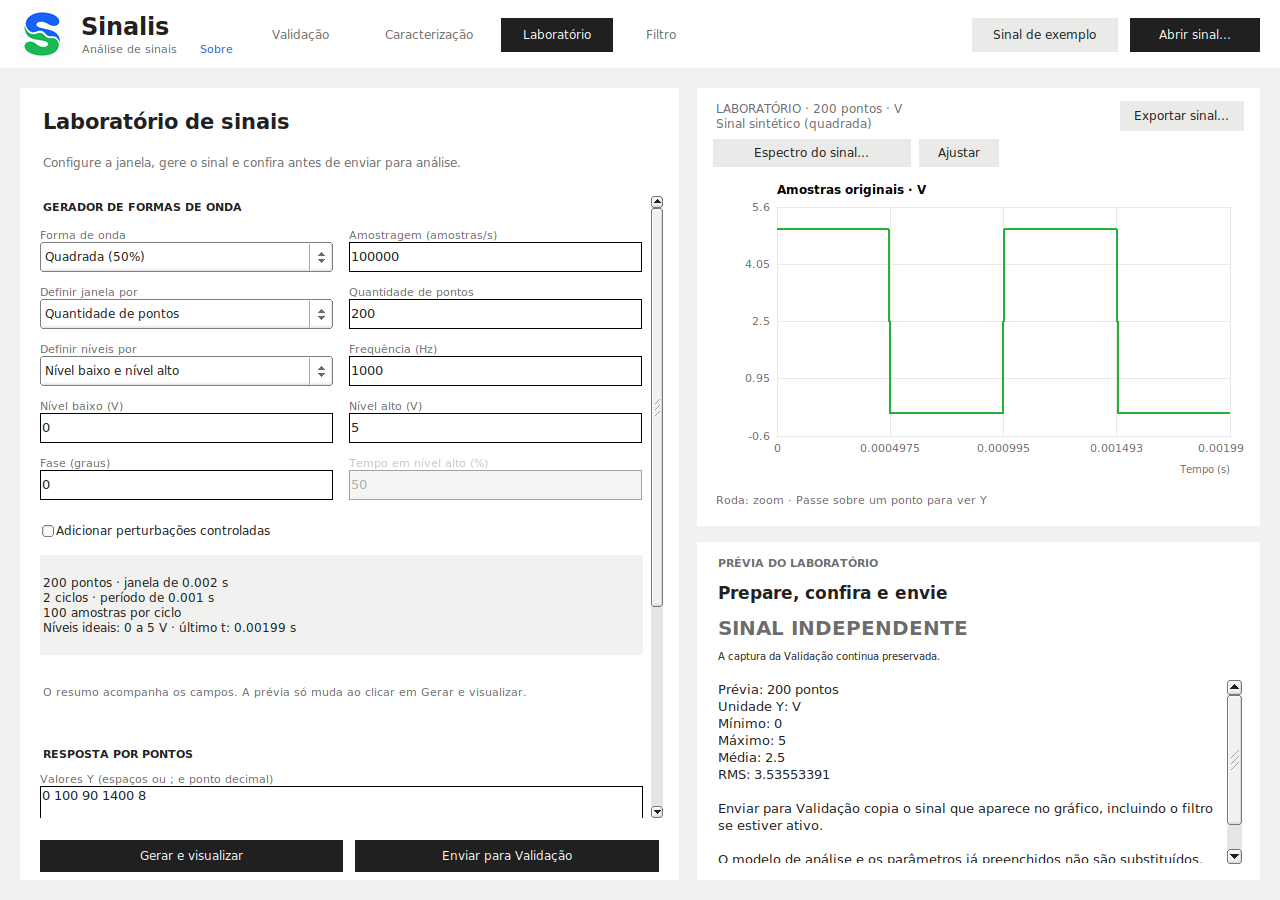
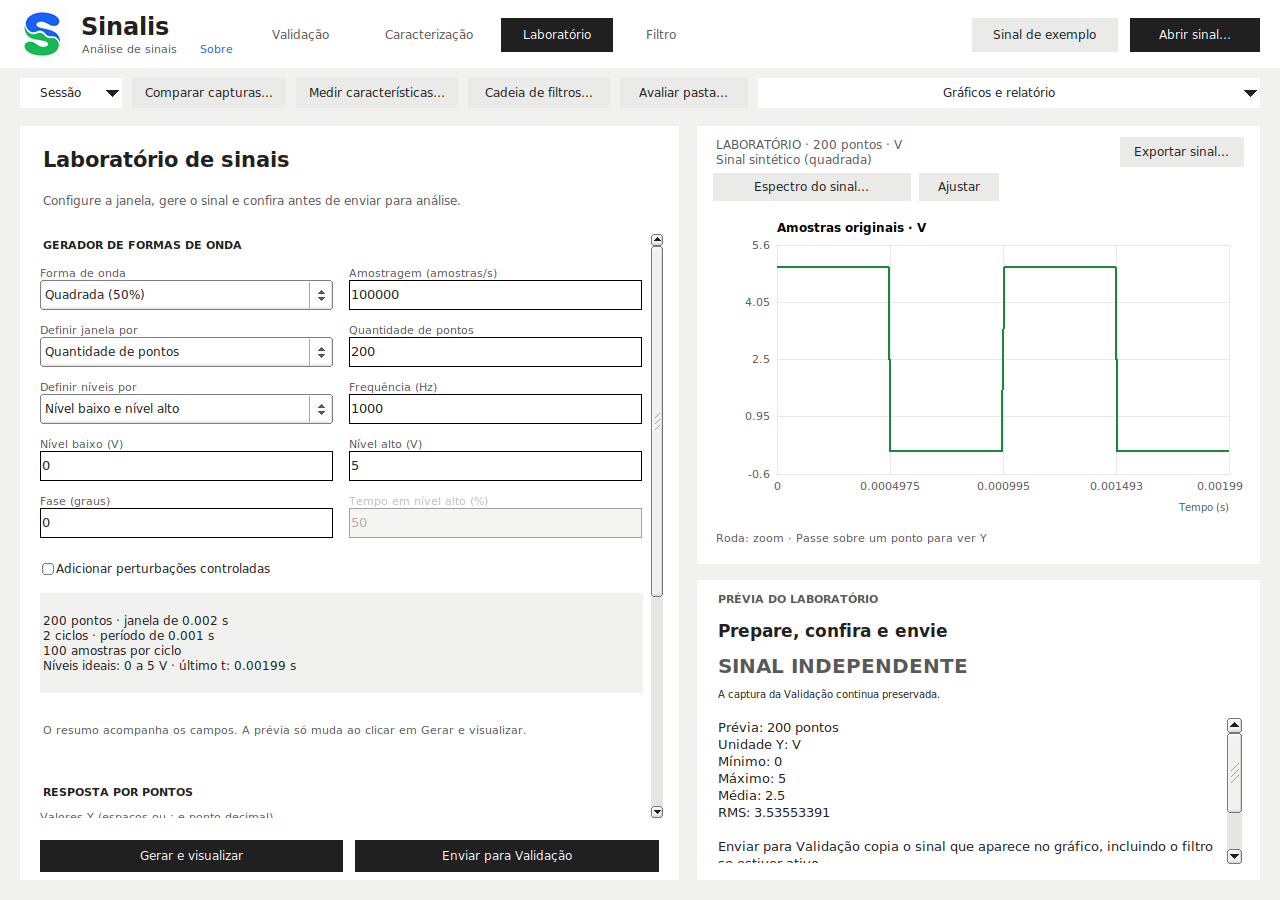
Publica Sinalis 0.15.1 e atualiza os guias de uso

diff --git a/USO.md b/USO.md
@@ -1,0 +1,126 @@
+# Guia de uso do Sinalis 0.15.1
+
+O Sinalis analisa arquivos locais. Uma tela de pelo menos 1024 × 660 permite
+usar a interface; 1280 × 900 oferece mais espaço para gráficos e critérios.
+
+## Começar por uma captura
+
+1. Clique em **Abrir sinal…** e escolha um JSON, CSV ou TXT numérico.
+2. Se o arquivo contiver vários conjuntos possíveis, confira a prévia e escolha
+   o sinal correto. Uma recuperação de arquivo defeituoso exige confirmação.
+3. Em **Caracterização**, confira os pontos, as unidades e os metadados.
+4. Em **Validação**, configure ou carregue o modelo que representa seu ensaio.
+5. Clique em **Avaliar modelo** e confira os resultados e suas justificativas.
+
+O sinal que acompanha a abertura do programa é um exemplo. Os limites dos
+modelos de demonstração são fictícios. Editar a unidade de X muda a
+identificação, sem converter os números.
+
+## Modelo e sessão
+
+**Salvar modelo…** guarda os critérios em `TEST_nome.json`. É útil para aplicar
+as mesmas exigências a outras capturas. Alterações do modelo precisam ser
+avaliadas ou salvas antes de exportar um resultado atualizado.
+
+**Sessão → Salvar sessão…** guarda o trabalho completo em `.sinalis`: sinais,
+modelo, estado dos filtros, configurações, observações, campos em edição e
+visualização. Campos numéricos ainda incompletos podem ser guardados sem
+aplicá-los. Ao retomar, a sessão utiliza os dados que contém; não abre
+automaticamente os caminhos históricos registrados nela.
+
+O asterisco no título indica alterações ainda não guardadas na sessão. Ao
+fechar ou abrir outra sessão, você pode salvar, descartar ou cancelar a ação.
+Cancelar a escolha do arquivo de salvamento também cancela a substituição.
+
+Salvar um modelo ou exportar um sinal não substitui salvar a sessão. Mantenha
+cópias de segurança dos arquivos importantes.
+
+## Entender a avaliação
+
+- **Aprovado:** os dados atenderam aos critérios configurados.
+- **Reprovado:** pelo menos uma exigência necessária falhou.
+- **Inconclusivo:** algum dado ou condição impediu a conclusão; leia o motivo.
+- **Sem critérios:** nenhum requisito de aprovação foi ativado.
+
+Em **Todos passarem**, cada regra ativa é necessária. Em **Pelo menos um
+passar**, basta uma. Em **Parcial**, todas as regras do mesmo conjunto precisam
+passar; basta um conjunto completo aprovado.
+
+Mostrar a curva de Lagrange não ativa sua validação. Nós utilizados na
+construção da curva não constituem uma comparação independente. Envelope e
+critérios de Lagrange habilitados acrescentam suas próprias exigências.
+
+## Comparar e medir
+
+**Comparar capturas…** recebe uma referência e informa erros e diferenças.
+Escolha entre coordenadas exatas e interpolação linear explícita. O programa
+confere domínios e unidades; não extrapola a referência nem converte unidades
+automaticamente. Correlação pode ficar indisponível para sinais constantes.
+
+**Medir características…** localiza picos e, quando há base temporal regular
+e transições suficientes, calcula período, frequência, duty e tempos de
+subida/descida. O overshoot exige níveis de referência manuais. Um resultado
+indisponível não é substituído por zero nem se torna um critério de aprovação
+automaticamente.
+
+## Gerar e filtrar
+
+Em **Laboratório**, configure a forma de onda, quantidade/duração, frequência e
+níveis antes de gerar. Ruído com semente fixa permite repetir o experimento.
+Envie uma cópia para **Validação** ou **Filtro** quando desejar.
+
+Em **Filtro**, confira a amostragem, escolha o processamento e compare a entrada
+com a saída. Sugestões são heurísticas; características úteis também podem ser
+suavizadas. Um processamento demorado permite navegar por outras abas; aguarde
+sua conclusão antes de substituir a sessão.
+
+**Cadeia de filtros…** permite organizar até 16 etapas, desativar ou reordenar
+filtros e experimentar uma parte da cadeia. Cada execução começa pela entrada.
+
+## Lotes e exportações
+
+**Avaliar pasta…** aplica um modelo ou procura os `TEST_` correspondentes às
+capturas selecionadas. O processamento não percorre subpastas nem segue links
+de arquivos. Confira o resumo CSV: ele distingue avaliações, arquivos
+existentes, erros e cancelamento.
+
+No fluxo de arquivos, `ensaio.json` corresponde a `TEST_ensaio.json` e produz
+`EVAL_ensaio.json`. Os originais são preservados; um relatório existente exige
+uma decisão de sobrescrita.
+
+**Exportar sinal…** guarda todas as amostras em JSON, CSV ou TXT, com metadados.
+O zoom não reduz essa exportação. CSV/TXT utilizam ponto decimal e um cabeçalho
+de metadados que o Sinalis consegue reimportar.
+
+**Gráficos e relatório** oferece PNG, SVG, PDF e HTML. PNG representa o gráfico
+visível; os relatórios utilizam os dados completos da avaliação. PDF inclui a
+configuração no anexo `configuracao.json`; HTML apresenta a configuração no
+próprio documento. Há também exportação CSV para espectro, picos e diferenças.
+
+## Atalhos
+
+| Tecla | Ação |
+|---|---|
+| Ctrl+1 a Ctrl+4 | Validação, Caracterização, Laboratório e Filtro |
+| Ctrl+O | Abrir sinal |
+| Ctrl+Shift+O | Abrir sessão |
+| Ctrl+Shift+S | Salvar sessão |
+| Ctrl+S | Salvar modelo em Validação, configuração em Filtro ou sessão nas outras abas |
+| Ctrl+Enter | Avaliar, gerar ou aplicar filtro na aba correspondente |
+| Tab / Shift+Tab | Percorrer os controles |
+| F1 | Ajuda do campo em foco; guia quando não há ajuda contextual |
+| Espaço / Enter no ícone (?) | Mostrar a explicação |
+| Esc na janela principal | Dispensar ajuda |
+| Ctrl+Q | Fechar, verificando alterações da sessão |
+
+O menu **Sessão → Ajuda e atalhos…** oferece o guia dentro do aplicativo.
+
+## Quando um resultado parecer estranho
+
+Confira primeiro o arquivo escolhido, unidades, taxa de amostragem, critérios
+ativos e avisos de recuperação. Considere a quantidade de amostras disponível:
+poucos pontos não permitem inferir o movimento entre eles.
+
+Para relatar um problema, informe versão, sistema, passos e resultado esperado.
+Compartilhe somente exemplos que possam se tornar públicos. O Sinalis não
+substitui calibração, ensaios físicos ou validação técnica independente.

diff --git a/README.md b/README.md
@@ -11,19 +11,30 @@ avaliar medições usando modelos com critérios configuráveis.
 Este repositório contém apenas a apresentação e os termos de distribuição.
 **O código-fonte e o histórico de desenvolvimento não são publicados aqui.**
 
-## Download — versão 0.14.2
+## Download — versão 0.15.1
 
 | Sistema | Download | Como abrir |
 |---|---|---|
-| Windows x64 | [Sinalis-0.14.2-Windows-x64.zip](https://github.com/IcaroRamosDM/Sinalis/releases/download/v0.14.2/Sinalis-0.14.2-Windows-x64.zip) | Extraia o ZIP inteiro e dê dois cliques em `Sinalis.exe` |
-| Ubuntu / Debian amd64 | [sinalis_0.14.2_amd64.deb](https://github.com/IcaroRamosDM/Sinalis/releases/download/v0.14.2/sinalis_0.14.2_amd64.deb) | Instale o pacote e procure **Sinalis** no menu do sistema |
+| Windows x64 | [Sinalis-0.15.1-Windows-x64.zip](https://github.com/IcaroRamosDM/Sinalis/releases/download/v0.15.1/Sinalis-0.15.1-Windows-x64.zip) | Extraia o ZIP inteiro e dê dois cliques em `Sinalis.exe` |
+| Ubuntu / Debian amd64 | [sinalis_0.15.1_amd64.deb](https://github.com/IcaroRamosDM/Sinalis/releases/download/v0.15.1/sinalis_0.15.1_amd64.deb) | Instale o pacote e procure **Sinalis** no menu do sistema |
 
 [Todas as versões e arquivos](https://github.com/IcaroRamosDM/Sinalis/releases)
-· [SHA-256 dos downloads](https://github.com/IcaroRamosDM/Sinalis/releases/download/v0.14.2/SHA256SUMS.txt)
+· [SHA-256 dos downloads](https://github.com/IcaroRamosDM/Sinalis/releases/download/v0.15.1/SHA256SUMS.txt)
 
 Na página da versão, abra **Assets** e escolha um dos dois pacotes acima.
 Os itens automáticos **Source code (zip)** e **Source code (tar.gz)** do GitHub
 contêm apenas os arquivos desta página, não o aplicativo nem seu código-fonte.
+
+## Novidades da versão 0.15.1
+
+- Sessões `.sinalis` para retomar sinais, modelos, filtros, observações e campos em edição.
+- Comparação de capturas, picos e medições temporais quando os dados permitem.
+- Cadeias de filtros, avaliação de pastas e exportação PNG/SVG/PDF/HTML.
+- Aviso de alterações da sessão, proteção dos arquivos em uso, ajuda por teclado,
+  foco visível e contraste revisto.
+- Correções na validação e restauração de sessões.
+
+[Guia de uso e atalhos](USO.md) · [Histórico de alterações](CHANGELOG.md)
 
 ## Permissão de uso
 
@@ -40,7 +51,7 @@ terceiros. Consulte os termos completos em [LICENSE.md](LICENSE.md).
 | Área | Principais recursos |
 |---|---|
 | **Validação** | Modelos de análise com várias regras, resultados por critério, tolerâncias, conjuntos alternativos, envelope de aprovação e critérios por interpolação de Lagrange |
-| **Caracterização** | Quantidade de pontos, extremos, média, RMS, pico a pico, informações do sinal e espectro FFT/Welch |
+| **Caracterização** | Estatísticas, picos, período/frequência, duty, subida/descida e overshoot condicionados aos dados; espectro FFT/Welch |
 | **Laboratório** | Senoide, quadrada, pulso, triangular, dentes de serra, pulso único, rajada, sequência por pontos, ruído reprodutível e falhas controladas |
 | **Filtro** | Comparação antes/depois, média móvel, EMA, mediana, IIR, notch, FIR, Savitzky–Golay, Hampel, gaussiano, média aparada, wavelets e sugestões automáticas |
 
@@ -53,7 +64,10 @@ terceiros. Consulte os termos completos em [LICENSE.md](LICENSE.md).
   você escolha o conjunto correto. Não é um leitor universal de qualquer JSON.
 - **Saída de sinais:** JSON, CSV ou TXT.
 - **Modelos de validação:** JSON, salvos com o prefixo `TEST_`.
-- **Relatórios de avaliação:** JSON, com o prefixo `EVAL_` no fluxo de arquivos.
+- **Relatórios de avaliação:** JSON (`EVAL_` no fluxo de arquivos), PDF e HTML.
+- **Gráficos e tabelas:** PNG/SVG e CSV de espectro, picos ou diferenças.
+- **Sessões:** `.sinalis`, com dados e estado de trabalho portáteis.
+- **Cadeias:** JSON `sinalis-chain`, com até 16 etapas de filtro.
 - **Configurações de filtros:** JSON.
 
 Em **Avaliar arquivos**, selecione o sinal e o modelo para gerar o relatório.
@@ -64,7 +78,7 @@ na mesma pasta, produzindo `EVAL_ensaio.json`. Os originais são preservados.
 
 ### Windows
 
-1. Baixe `Sinalis-0.14.2-Windows-x64.zip`.
+1. Baixe `Sinalis-0.15.1-Windows-x64.zip`.
 2. No Explorador de Arquivos, clique com o botão direito no ZIP e escolha
    **Extrair Tudo…**.
 3. Abra a pasta extraída `Sinalis` e dê dois cliques em **Sinalis.exe**.
@@ -85,13 +99,13 @@ O pacote é destinado a **Ubuntu 24.04/26.04 e Debian 12/13, arquitetura
 amd64/x86-64**, com ambiente gráfico. ARM64, macOS e outras distribuições não
 estão cobertos por este pacote.
 
-1. Baixe `sinalis_0.14.2_amd64.deb`.
+1. Baixe `sinalis_0.15.1_amd64.deb`.
 2. Abra a pasta do download no gerenciador de arquivos e use **Abrir no
    terminal**.
 3. Nesse terminal, execute:
 
    ```bash
-   sudo apt install ./sinalis_0.14.2_amd64.deb
+   sudo apt install ./sinalis_0.15.1_amd64.deb
    ```
 
 4. Aguarde a instalação, abra o menu/pesquisa de aplicativos e procure
@@ -119,13 +133,13 @@ ao seu pacote com o resultado do comando abaixo, executado na pasta do download.
 Windows, no PowerShell:
 
 ```powershell
-Get-FileHash -Algorithm SHA256 .\Sinalis-0.14.2-Windows-x64.zip
+Get-FileHash -Algorithm SHA256 .\Sinalis-0.15.1-Windows-x64.zip
 ```
 
 Linux:
 
 ```bash
-sha256sum sinalis_0.14.2_amd64.deb
+sha256sum sinalis_0.15.1_amd64.deb
 ```
 
 Os 64 caracteres do hash devem coincidir, desconsiderando maiúsculas/minúsculas.
@@ -140,6 +154,8 @@ Se houver diferença, não use o arquivo e faça um novo download da página ofi
    Um modelo de demonstração não é uma especificação técnica da sua aplicação.
 4. Em **Laboratório**, gere um sinal e envie-o para **Validação** ou **Filtro**.
 5. Em **Filtro**, compare o original com a saída antes de exportá-la.
+6. Em **Sessão → Salvar sessão…**, guarde o trabalho para retomá-lo. O asterisco
+   no título indica alterações ainda não guardadas nessa sessão.
 
 A pasta `examples` traz pequenos sinais e modelos didáticos. Os limites dos
 modelos são ilustrativos: ajuste-os conforme a finalidade da sua análise.

diff --git a/CHANGELOG.md b/CHANGELOG.md
@@ -1,0 +1,24 @@
+# Histórico do Sinalis
+
+## 0.15.1 — 02/11/2026
+
+Esta distribuição reúne os recursos da linha 0.15 e melhorias no uso de sessões e na interface.
+
+- Sessões portáteis, comparação de capturas e medições condicionadas aos dados.
+- Cadeias de até 16 filtros e avaliação de arquivos em lote.
+- Exportações PNG/SVG/PDF/HTML e CSV de espectro, picos e diferenças.
+- Indicação de alterações da sessão, com salvar/descartar/cancelar ao fechar ou
+  substituir o trabalho. Cancelar o salvamento preserva a sessão aberta.
+- Proteção unificada de capturas, modelos, referências e sessão contra destinos
+  equivalentes, vínculos e sobrescritas indevidas.
+- Correção da validação de entradas/saídas armazenadas em sessões, incluindo
+  saídas inativas. Texto inválido da interface é recusado antes da restauração.
+- Ajuda contextual por teclado, guia interno, atalhos, foco visível e contraste
+  revisto, mantendo a identidade do aplicativo.
+
+
+## 0.14.2
+
+Distribuição pública anterior, com análise, geração, filtros, critérios,
+Lagrange, envelope, espectro e pacotes Windows/Linux. Seus downloads continuam
+disponíveis na página de releases.

diff --git a/THIRD_PARTY_NOTICES.md b/THIRD_PARTY_NOTICES.md
@@ -20,6 +20,9 @@ Texto completo: `licenses/FLTK-COPYING.txt`.
 
 Copyright (c) 2009–2017 Dave Gamble and cJSON contributors. Licença MIT.
 
+A versão é mantida com um ajuste local de serialização numérica para preservar
+a precisão dos valores `double` ao salvar e retomar dados.
+
 Texto completo: `licenses/cJSON-LICENSE.txt`.
 [Projeto](https://github.com/DaveGamble/cJSON/tree/v1.7.19).
 
@@ -55,3 +58,11 @@ redistribui cópias de glibc, libstdc++ ou bibliotecas X11 dentro do instalador.
 Os avisos desses pacotes ficam nos diretórios correspondentes em
 `/usr/share/doc` do sistema. Os textos Windows acima são incluídos apenas no
 pacote Windows.
+
+## Fonte DejaVu Sans
+
+A exportação PDF incorpora DejaVu Sans para representar os símbolos e os
+caracteres utilizados na análise. A fonte mantém seus direitos e sua licença
+própria, incluída em `licenses/DejaVu-COPYING.txt`.
+
+[Projeto DejaVu](https://dejavu-fonts.github.io/).
